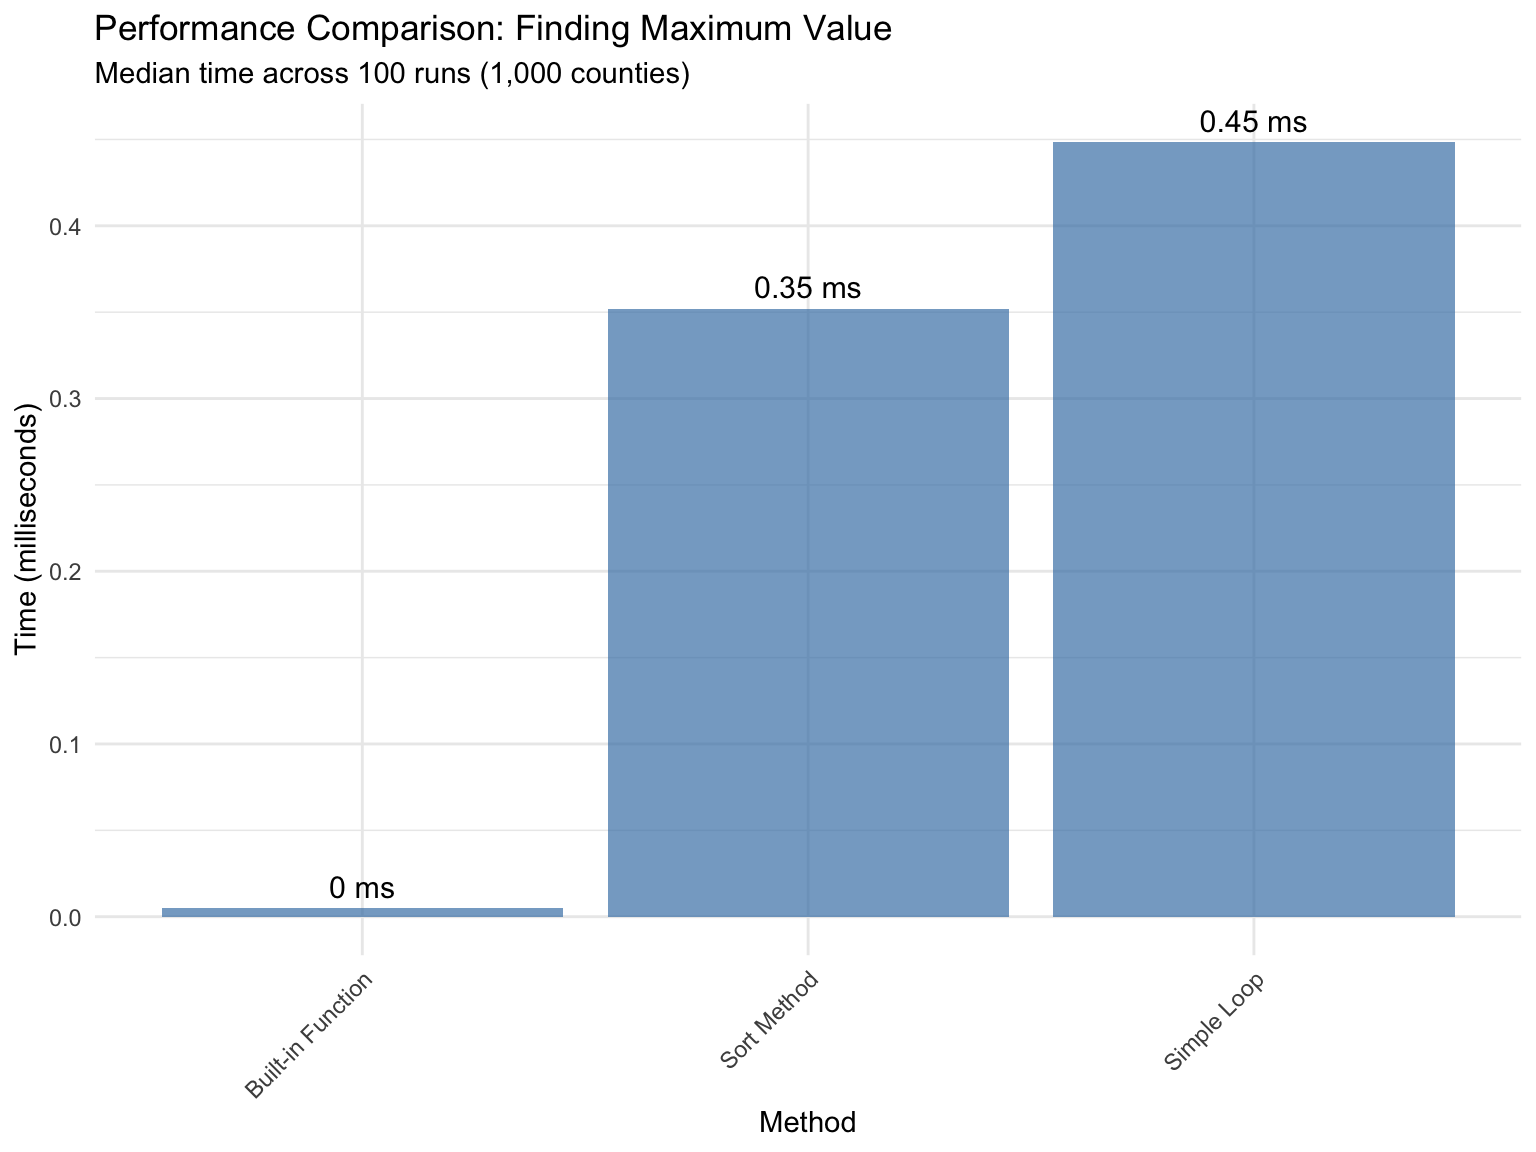
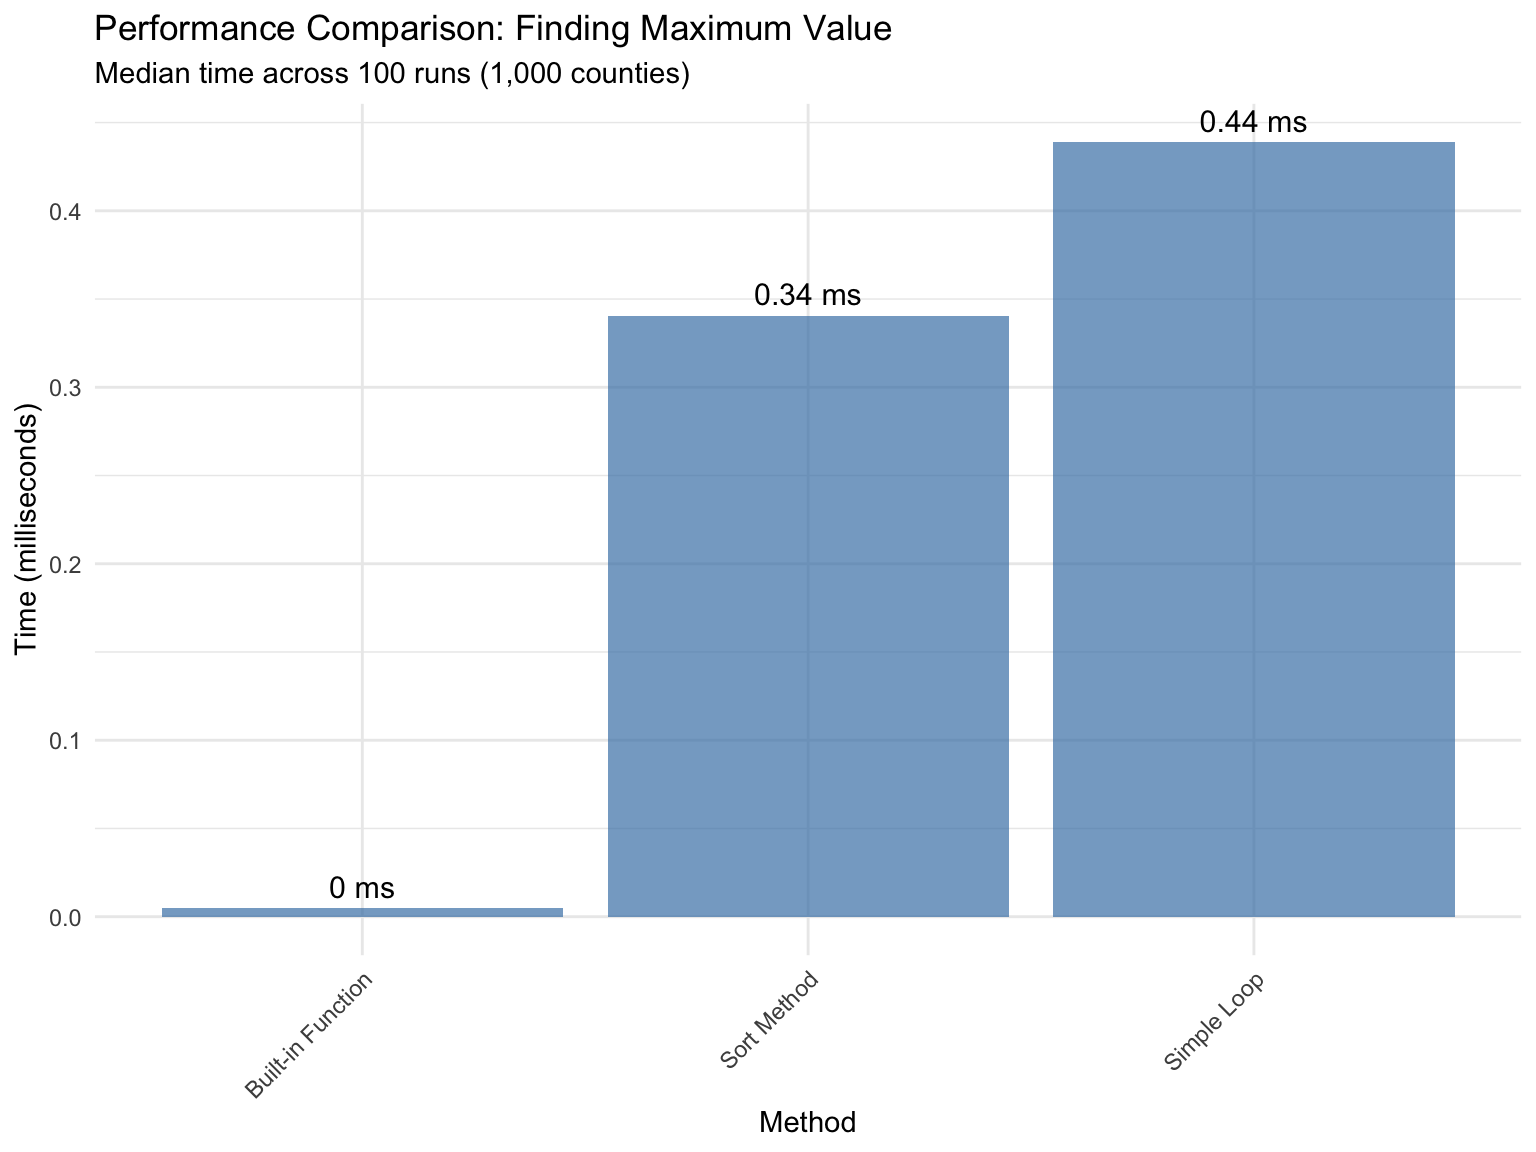
add some extra stuff

diff --git a/_lectures/lec06_algorithms.html b/_lectures/lec06_algorithms.html
@@ -473,10 +473,10 @@ Rod Albuyeh
 <span id="cb10-20"><a href="" aria-hidden="true" tabindex="-1"></a><span class="fu">print</span>(benchmark_results)</span></code></pre></div><button title="Copy to Clipboard" class="code-copy-button"><i class="bi"></i></button></div>
 <div class="cell-output cell-output-stdout">
 <pre><code>Unit: microseconds
-    expr     min      lq      mean   median       uq      max neval
-  simple 417.503 431.689 477.83942 448.3350 497.8835 1375.591   100
- builtin   4.428   4.674  13.20528   4.8585   5.1250  811.841   100
- sorting 326.114 336.938 387.23639 352.0260 386.0560 1669.520   100</code></pre>
+    expr     min       lq      mean   median      uq      max neval
+  simple 411.968 426.4000 467.51234 438.8025 455.920 1394.738   100
+ builtin   4.428   4.6330  12.92238   4.7970   5.002  804.420   100
+ sorting 327.508 334.5805 374.39970 340.5665 365.966 1636.925   100</code></pre>
 </div>
 </div>
 </section>
@@ -534,22 +534,26 @@ Rod Albuyeh
 <div class="code-copy-outer-scaffold"><div class="sourceCode cell-code" id="cb12"><pre class="sourceCode r code-with-copy"><code class="sourceCode r"><span id="cb12-1"><a href="" aria-hidden="true" tabindex="-1"></a><span class="co"># Bubble Sort: O(n²) - compares every pair</span></span>
 <span id="cb12-2"><a href="" aria-hidden="true" tabindex="-1"></a>bubble_sort <span class="ot">&lt;-</span> <span class="cf">function</span>(x) {</span>
 <span id="cb12-3"><a href="" aria-hidden="true" tabindex="-1"></a>  n <span class="ot">&lt;-</span> <span class="fu">length</span>(x)</span>
-<span id="cb12-4"><a href="" aria-hidden="true" tabindex="-1"></a>  <span class="cf">for</span>(i <span class="cf">in</span> <span class="dv">1</span><span class="sc">:</span>(n<span class="dv">-1</span>)) {</span>
-<span id="cb12-5"><a href="" aria-hidden="true" tabindex="-1"></a>    <span class="cf">for</span>(j <span class="cf">in</span> <span class="dv">1</span><span class="sc">:</span>(n<span class="sc">-</span>i)) {</span>
-<span id="cb12-6"><a href="" aria-hidden="true" tabindex="-1"></a>      <span class="cf">if</span>(x[j] <span class="sc">&gt;</span> x[j<span class="sc">+</span><span class="dv">1</span>]) {</span>
-<span id="cb12-7"><a href="" aria-hidden="true" tabindex="-1"></a>        <span class="co"># Swap elements</span></span>
-<span id="cb12-8"><a href="" aria-hidden="true" tabindex="-1"></a>        temp <span class="ot">&lt;-</span> x[j<span class="sc">+</span><span class="dv">1</span>]</span>
-<span id="cb12-9"><a href="" aria-hidden="true" tabindex="-1"></a>        x[j<span class="sc">+</span><span class="dv">1</span>] <span class="ot">&lt;-</span> x[j]</span>
-<span id="cb12-10"><a href="" aria-hidden="true" tabindex="-1"></a>        x[j] <span class="ot">&lt;-</span> temp</span>
-<span id="cb12-11"><a href="" aria-hidden="true" tabindex="-1"></a>      }</span>
-<span id="cb12-12"><a href="" aria-hidden="true" tabindex="-1"></a>    }</span>
-<span id="cb12-13"><a href="" aria-hidden="true" tabindex="-1"></a>  }</span>
-<span id="cb12-14"><a href="" aria-hidden="true" tabindex="-1"></a>  <span class="fu">return</span>(x)</span>
-<span id="cb12-15"><a href="" aria-hidden="true" tabindex="-1"></a>}</span>
-<span id="cb12-16"><a href="" aria-hidden="true" tabindex="-1"></a></span>
-<span id="cb12-17"><a href="" aria-hidden="true" tabindex="-1"></a><span class="co"># Test with small dataset</span></span>
-<span id="cb12-18"><a href="" aria-hidden="true" tabindex="-1"></a>small_data <span class="ot">&lt;-</span> <span class="fu">c</span>(<span class="dv">64</span>, <span class="dv">34</span>, <span class="dv">25</span>, <span class="dv">12</span>, <span class="dv">22</span>, <span class="dv">11</span>, <span class="dv">90</span>)</span>
-<span id="cb12-19"><a href="" aria-hidden="true" tabindex="-1"></a><span class="fu">cat</span>(<span class="st">"Original:"</span>, <span class="fu">paste</span>(small_data, <span class="at">collapse =</span> <span class="st">", "</span>), <span class="st">"</span><span class="sc">\n</span><span class="st">"</span>)</span></code></pre></div><button title="Copy to Clipboard" class="code-copy-button"><i class="bi"></i></button></div>
+<span id="cb12-4"><a href="" aria-hidden="true" tabindex="-1"></a>  <span class="co"># Outer loop: we need n-1 passes to sort n elements</span></span>
+<span id="cb12-5"><a href="" aria-hidden="true" tabindex="-1"></a>  <span class="co"># Each pass moves the largest unsorted element to its correct position</span></span>
+<span id="cb12-6"><a href="" aria-hidden="true" tabindex="-1"></a>  <span class="cf">for</span>(i <span class="cf">in</span> <span class="dv">1</span><span class="sc">:</span>(n<span class="dv">-1</span>)) {</span>
+<span id="cb12-7"><a href="" aria-hidden="true" tabindex="-1"></a>    <span class="co"># Inner loop: compare adjacent pairs from start to end of unsorted portion</span></span>
+<span id="cb12-8"><a href="" aria-hidden="true" tabindex="-1"></a>    <span class="co"># We use (n-i) because after i passes, the last i elements are already sorted</span></span>
+<span id="cb12-9"><a href="" aria-hidden="true" tabindex="-1"></a>    <span class="cf">for</span>(j <span class="cf">in</span> <span class="dv">1</span><span class="sc">:</span>(n<span class="sc">-</span>i)) {</span>
+<span id="cb12-10"><a href="" aria-hidden="true" tabindex="-1"></a>      <span class="cf">if</span>(x[j] <span class="sc">&gt;</span> x[j<span class="sc">+</span><span class="dv">1</span>]) {</span>
+<span id="cb12-11"><a href="" aria-hidden="true" tabindex="-1"></a>        <span class="co"># Swap elements</span></span>
+<span id="cb12-12"><a href="" aria-hidden="true" tabindex="-1"></a>        temp <span class="ot">&lt;-</span> x[j<span class="sc">+</span><span class="dv">1</span>]</span>
+<span id="cb12-13"><a href="" aria-hidden="true" tabindex="-1"></a>        x[j<span class="sc">+</span><span class="dv">1</span>] <span class="ot">&lt;-</span> x[j]</span>
+<span id="cb12-14"><a href="" aria-hidden="true" tabindex="-1"></a>        x[j] <span class="ot">&lt;-</span> temp</span>
+<span id="cb12-15"><a href="" aria-hidden="true" tabindex="-1"></a>      }</span>
+<span id="cb12-16"><a href="" aria-hidden="true" tabindex="-1"></a>    }</span>
+<span id="cb12-17"><a href="" aria-hidden="true" tabindex="-1"></a>  }</span>
+<span id="cb12-18"><a href="" aria-hidden="true" tabindex="-1"></a>  <span class="fu">return</span>(x)</span>
+<span id="cb12-19"><a href="" aria-hidden="true" tabindex="-1"></a>}</span>
+<span id="cb12-20"><a href="" aria-hidden="true" tabindex="-1"></a></span>
+<span id="cb12-21"><a href="" aria-hidden="true" tabindex="-1"></a><span class="co"># Test with small dataset</span></span>
+<span id="cb12-22"><a href="" aria-hidden="true" tabindex="-1"></a>small_data <span class="ot">&lt;-</span> <span class="fu">c</span>(<span class="dv">64</span>, <span class="dv">34</span>, <span class="dv">25</span>, <span class="dv">12</span>, <span class="dv">22</span>, <span class="dv">11</span>, <span class="dv">90</span>)</span>
+<span id="cb12-23"><a href="" aria-hidden="true" tabindex="-1"></a><span class="fu">cat</span>(<span class="st">"Original:"</span>, <span class="fu">paste</span>(small_data, <span class="at">collapse =</span> <span class="st">", "</span>), <span class="st">"</span><span class="sc">\n</span><span class="st">"</span>)</span></code></pre></div><button title="Copy to Clipboard" class="code-copy-button"><i class="bi"></i></button></div>
 <div class="cell-output cell-output-stdout">
 <pre><code>Original: 64, 34, 25, 12, 22, 11, 90 </code></pre>
 </div>
@@ -601,10 +605,10 @@ Rod Albuyeh
 <pre><code># A tibble: 4 × 3
       n bubble_sort builtin_sort
   &lt;dbl&gt;       &lt;dbl&gt;        &lt;dbl&gt;
-1   100     0.00100            0
+1   100     0                  0
 2   300     0.00200            0
 3   500     0.00600            0
-4   800     0.0150             0</code></pre>
+4   800     0.0140             0</code></pre>
 </div>
 </div>
 </section>

diff --git a/_modules/week-06.md b/_modules/week-06.md
@@ -6,6 +6,7 @@
         events:
           "**LEC 6**{: .label .label-lecture } [Intro to Algorithmic Thinking](_lectures/lec06_algorithms.html)": 
           "**Read**{: .label .label-read } [Algorithmic Thinking](https://learntocodewith.me/posts/algorithmic-thinking/)":
+          "**Video**{: .label .label-watch } [Bubble Sort in 2 minutes](https://www.youtube.com/watch?v=xli_FI7CuzA)":
 
       - date: 2025-11-05
         events:
